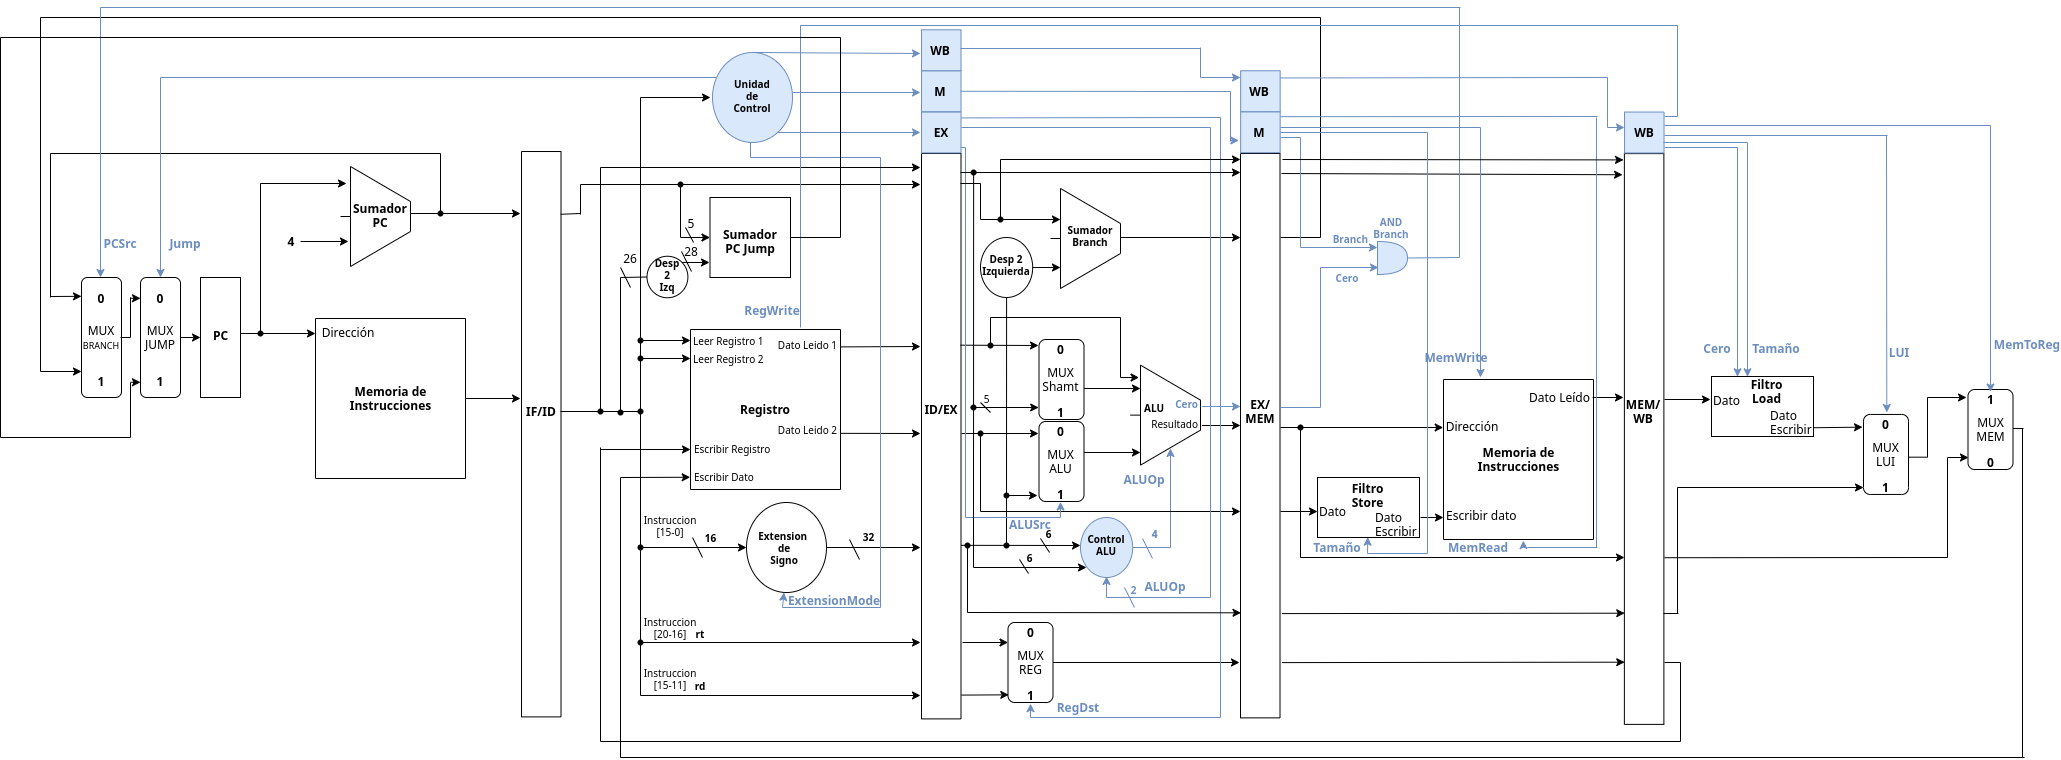
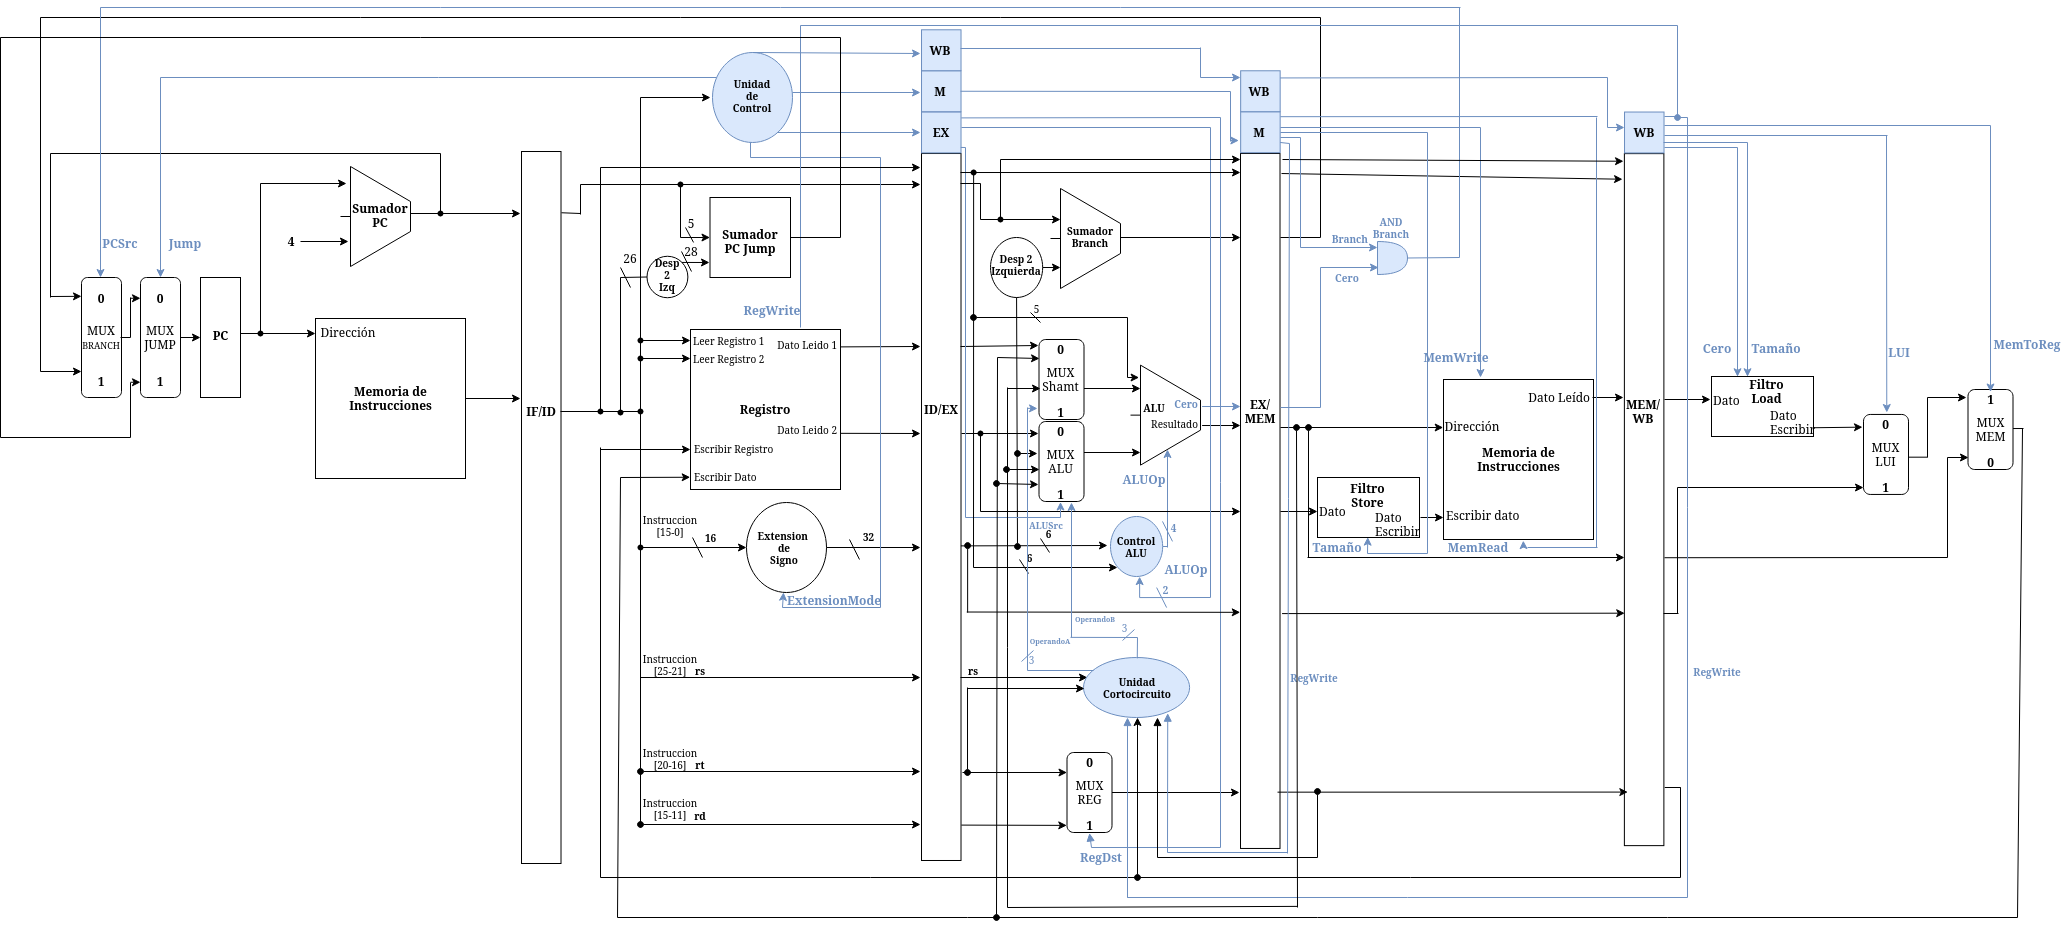
feat(add-unidad-cortocircuito): modify readme image and instruccions

diff --git a/README.md b/README.md
@@ -1,1 +1,3 @@
 # TP4-MIPS
+
+![Arquitectura MIPS TP4](books/Arquitectura-MIPS-modificado.png)
